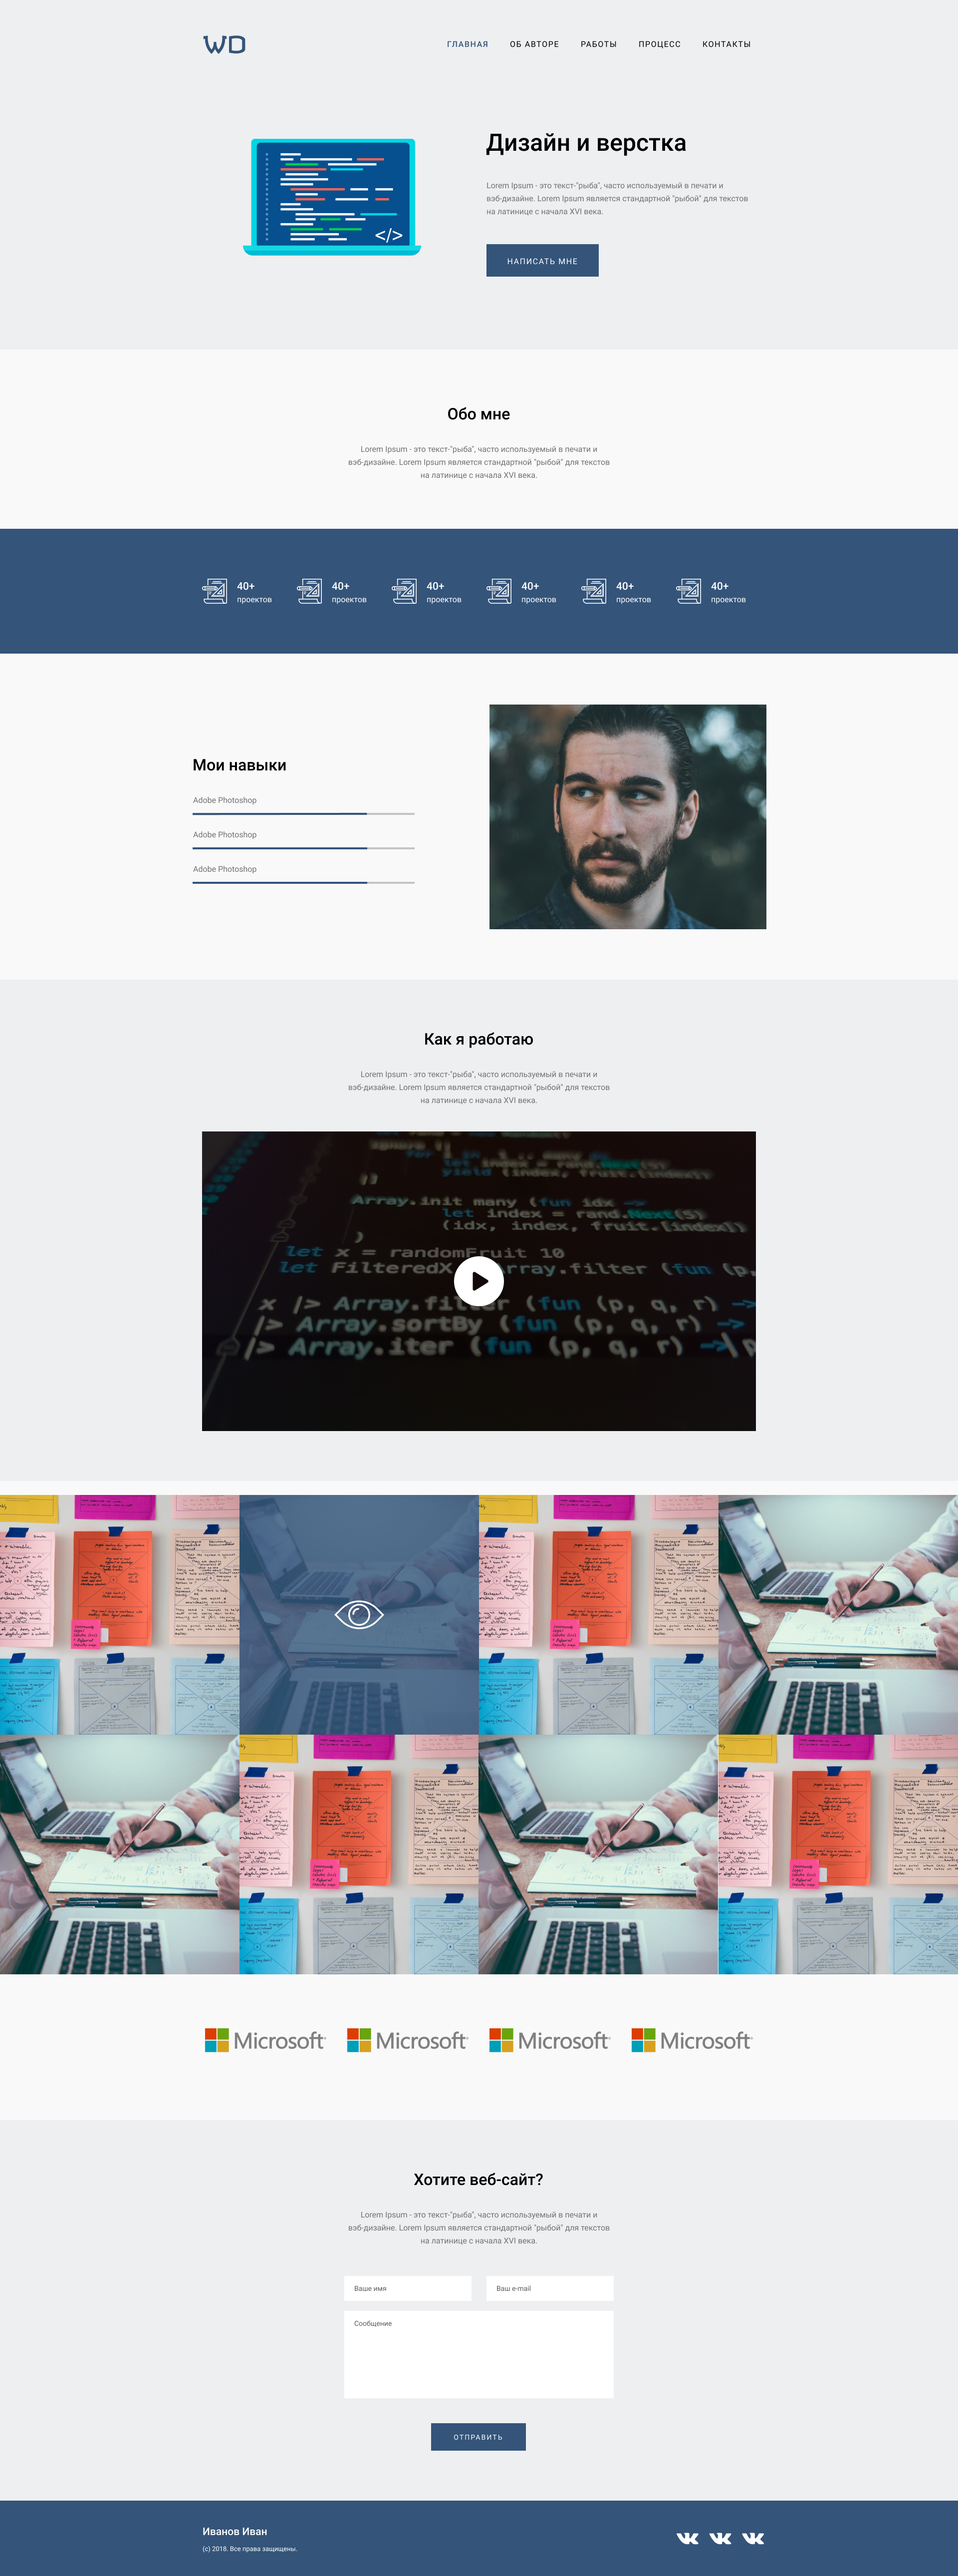
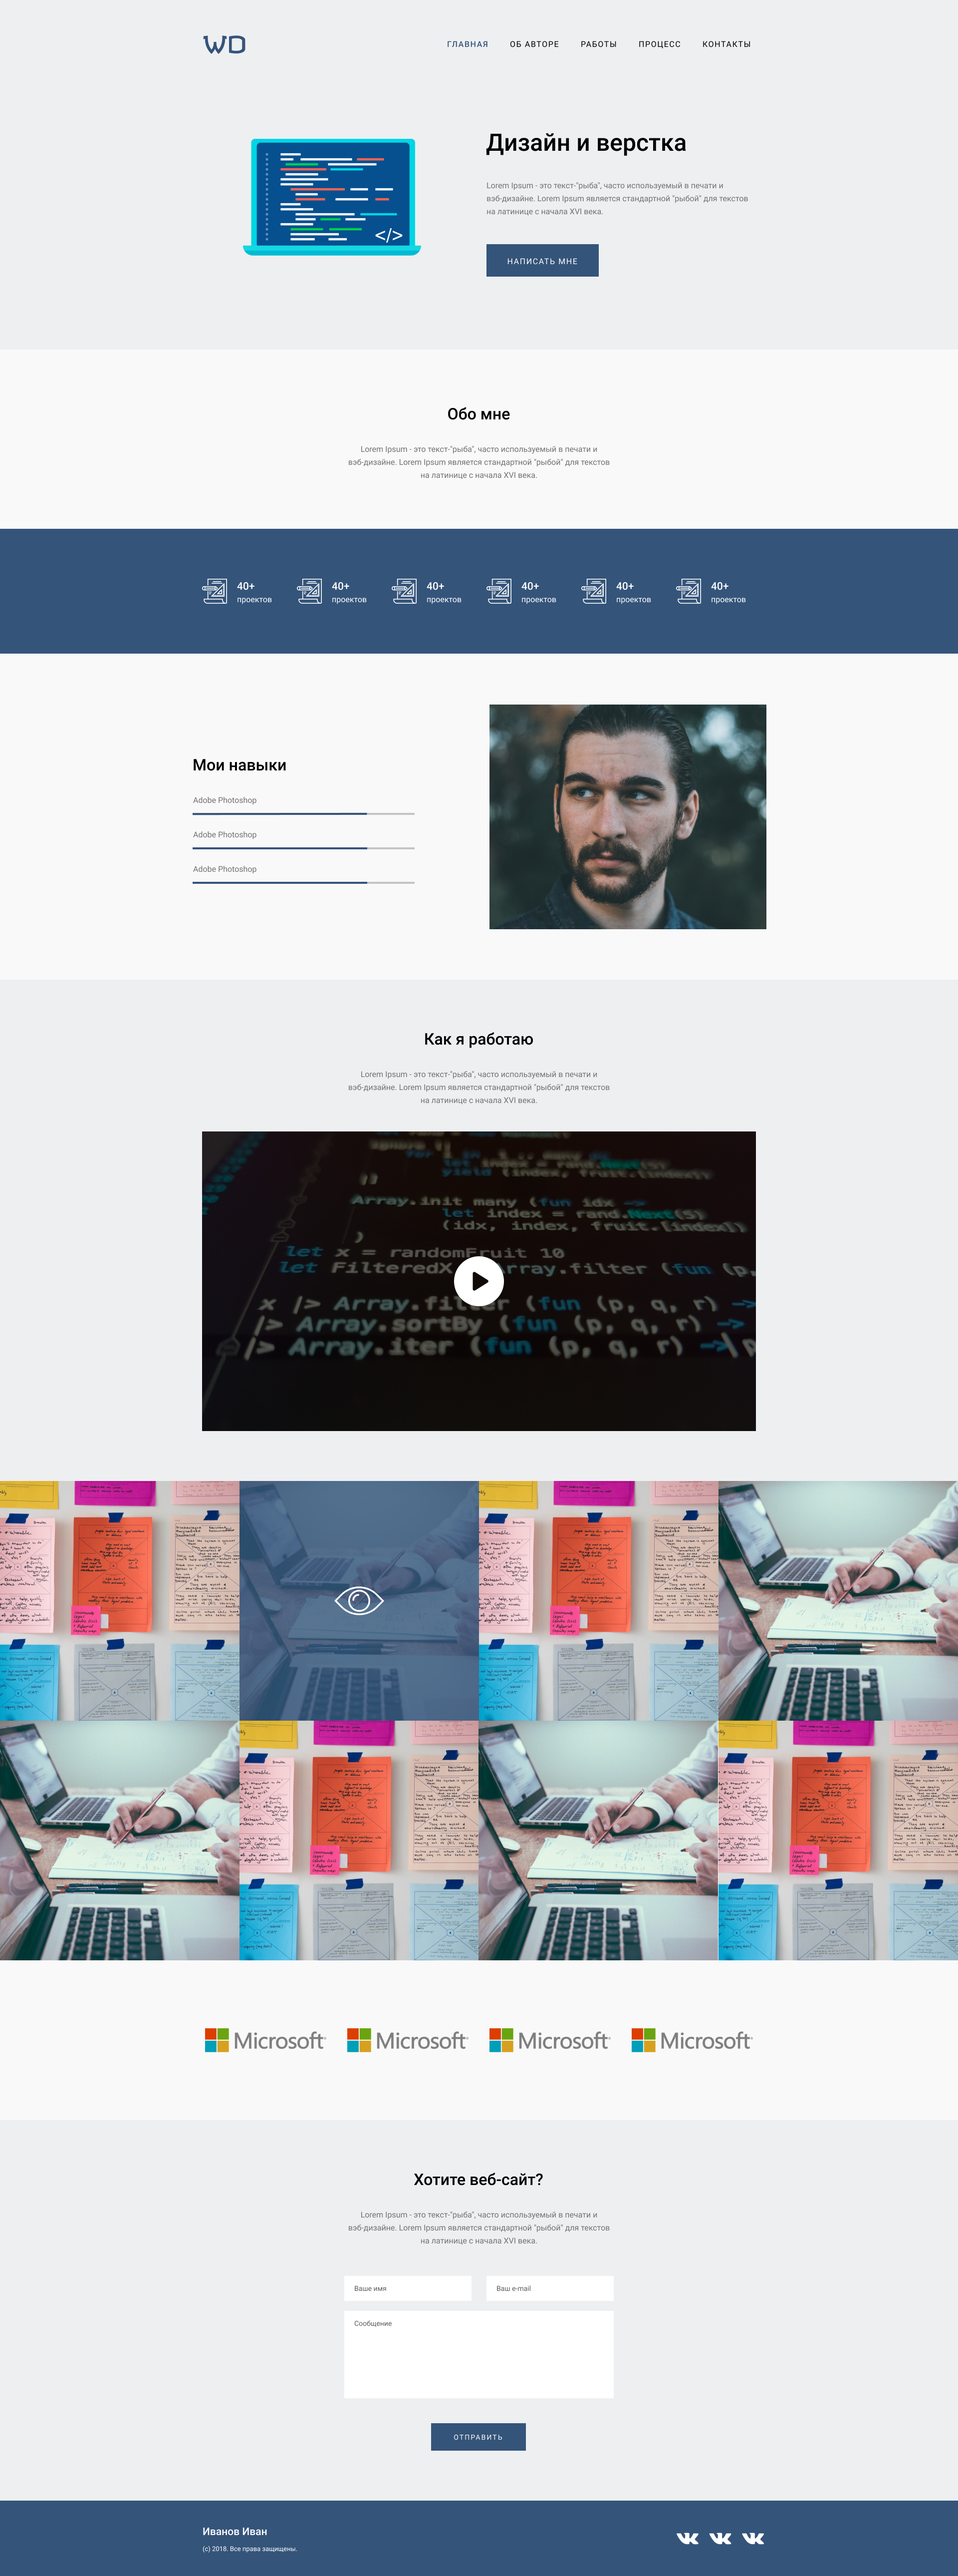
completed block -clients-

Changed region(s): [[0.0, 0.5617, 1.0, 0.7802]]

diff --git a/index.html b/index.html
@@ -322,6 +322,24 @@
         </div>
     </section>
 
+    <section class="clients">
+        <div class="container">
+            <div class="clients__inner">
+                <div class="clients__item">
+                    <img src="img/clients/microsoft.jpg" alt="microsoft">
+                </div>
+                <div class="clients__item">
+                    <img src="img/clients/microsoft.jpg" alt="microsoft">
+                </div>
+                <div class="clients__item">
+                    <img src="img/clients/microsoft.jpg" alt="microsoft">
+                </div>
+                <div class="clients__item">
+                    <img src="img/clients/microsoft.jpg" alt="microsoft">
+                </div>
+            </div>
+        </div>
+    </section>
     <script src="https://cdnjs.cloudflare.com/ajax/libs/baguettebox.js/1.11.1/baguetteBox.min.js"></script>
     <script src="js/header.js"></script>
     <script src="js/gallery.js"></script>

diff --git a/style/style.css b/style/style.css
@@ -515,7 +515,6 @@ footer {
   padding: 0;
 }
 .gallery__inner {
-  padding-top: 28px;
   display: grid;
   grid-template-columns: repeat(auto-fit, minmax(480px, 1fr));
 }
@@ -552,4 +551,29 @@ footer {
   width: 100%;
   height: 100%;
   background-color: rgba(52, 84, 122, 0.8);
+}
+.clients__inner {
+  padding: 100px 0;
+  display: grid;
+  gap: 30px;
+  grid-template-columns: repeat(4, 1fr);
+  justify-items: center;
+}
+@media (max-width: 1200px) {
+  .clients__inner {
+    grid-template-columns: repeat(2, 1fr);
+  }
+}
+@media (max-width: 700px) {
+  .clients__inner {
+    grid-template-columns: 1fr;
+  }
+}
+@media (max-width: 500px) {
+  .clients__inner {
+    padding: 50px;
+  }
+}
+.clients__item {
+  width: 255px;
 }

diff --git a/style/clients.less b/style/clients.less
@@ -1,0 +1,28 @@
+//main: style.less
+
+.clients {
+
+
+    &__inner{
+        padding: 100px 0;
+        display: grid;
+        gap: 30px;
+        grid-template-columns: repeat(4, 1fr);
+        justify-items: center;
+
+        @media (max-width: 1200px){
+            grid-template-columns: repeat(2, 1fr);
+        }
+
+        @media (max-width: 700px){
+            grid-template-columns: 1fr;
+        }
+        @media (max-width: 500px){
+            padding: 50px;
+        }
+    }
+
+    &__item{
+        width: 255px;
+    }
+}

diff --git a/style/gallery.less b/style/gallery.less
@@ -3,7 +3,6 @@
 .gallery {
     padding: 0;
     &__inner{
-        padding-top: 28px;
 
         display: grid;
         grid-template-columns: repeat(auto-fit, minmax(480px, 1fr));

diff --git a/style/style.less b/style/style.less
@@ -234,3 +234,4 @@ header, section, footer{
 @import "skills.less";
 @import "work.less";
 @import "gallery.less";
+@import "clients.less";
